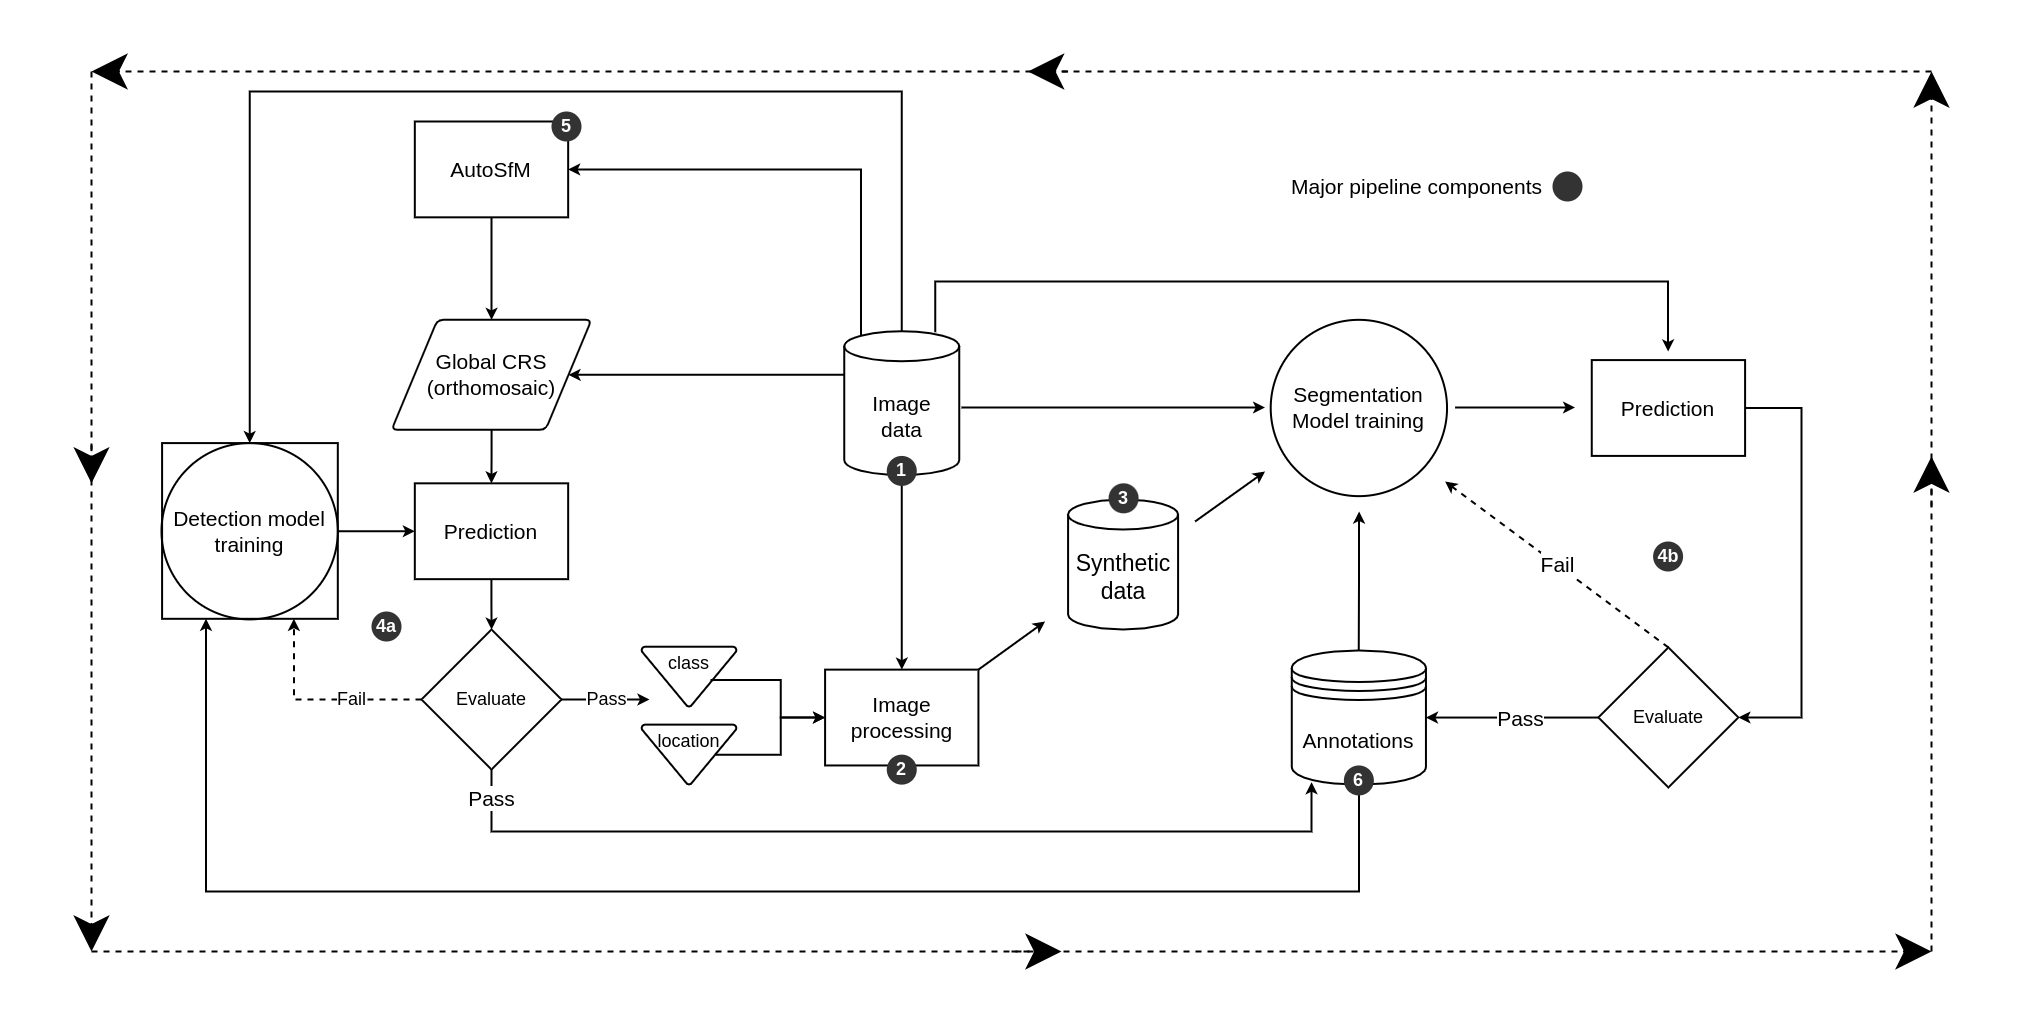
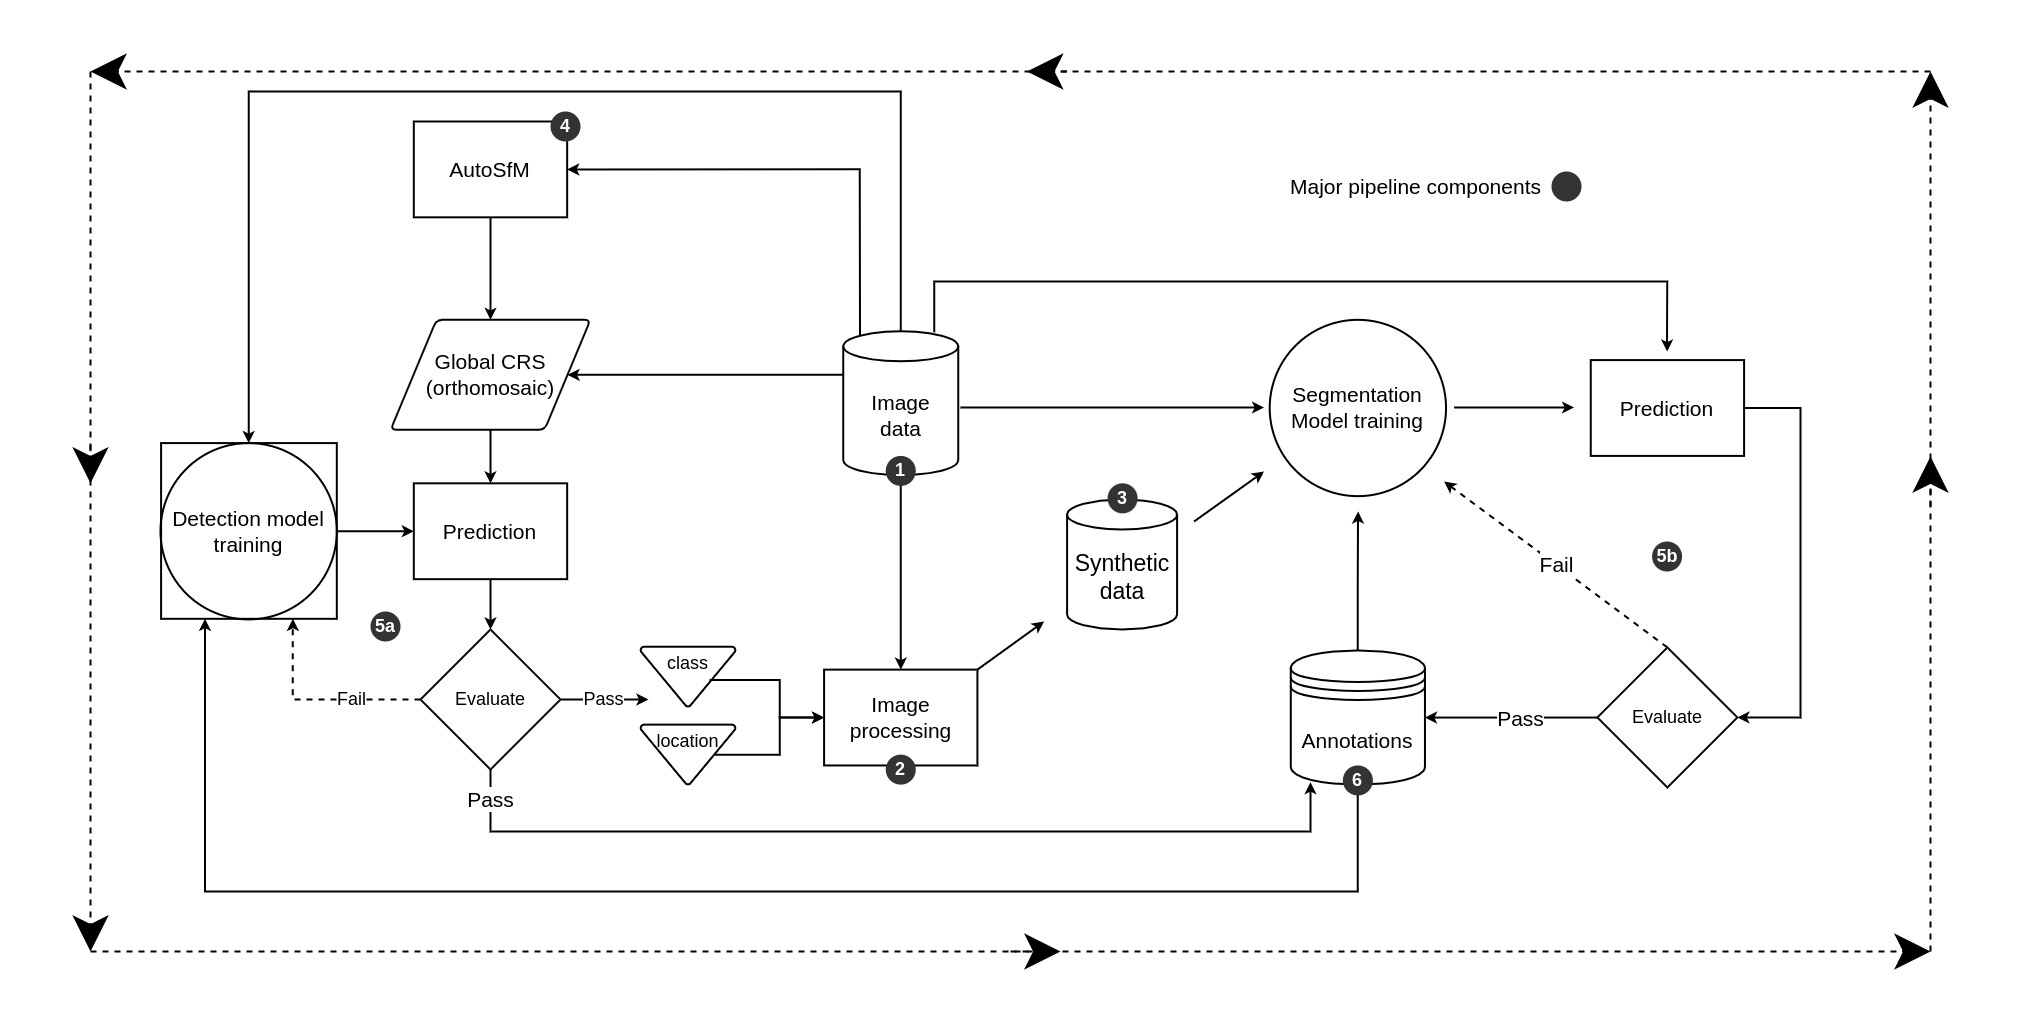
created Assets

diff --git a/README.md b/README.md
@@ -2,10 +2,11 @@
 
 Collecting and labeling images of weeds is time-consuming and costly, and has severely slowed the development of datasets necessary for utilizing artificial intelligence in agriculture, particularly in weed identification, mapping and precision management applications. This project aims to reduce the burden of manually annotating images of weeds and other plants by implementing a semi-automatic annotation pipeline designed to iterate over batches of incoming images.
 
-1. Vegetation is extracted using classical image processing techniques creating libraries of cutouts
-2. Cutouts are used to generate datasets of synthetic images with pixel-wise annotations
-3. 
-4. Generating a dataset of artificial images (using vegetation cut-outs) to train a deep learning object detection model, and 
+1. Images collected from BenchBot uploaded to shared storage
+2. Classical image processing techniques will be applied to segment vegetation creating a library of plant cutouts
+3. Synthetic data will be generated from cutouts and will be used to train both annotation assistant networks
+4. Annotation assistant models
+   1.  Detection assistant  models
 5. Using detection results and simple image processing techniques to extract and classify vegetation.
 
 No images need to be manually annotated, only cutouts need to be manually sorted into distinct classes, saving an estimated 22 hours per 1,000 cut-outs. Automatic annotation pipelines play an important role in developing robust datasets for trained AI models that can handle diverse scenes. The methodology devised here will be utilized in a weed image library pipeline currently being developed.
@@ -15,3 +16,5 @@ No images need to be manually annotated, only cutouts need to be manually sorted
 
 ## Detailed Flowchart
 ![](Assets/semif_pipeline_v4_small.png)
+
+
